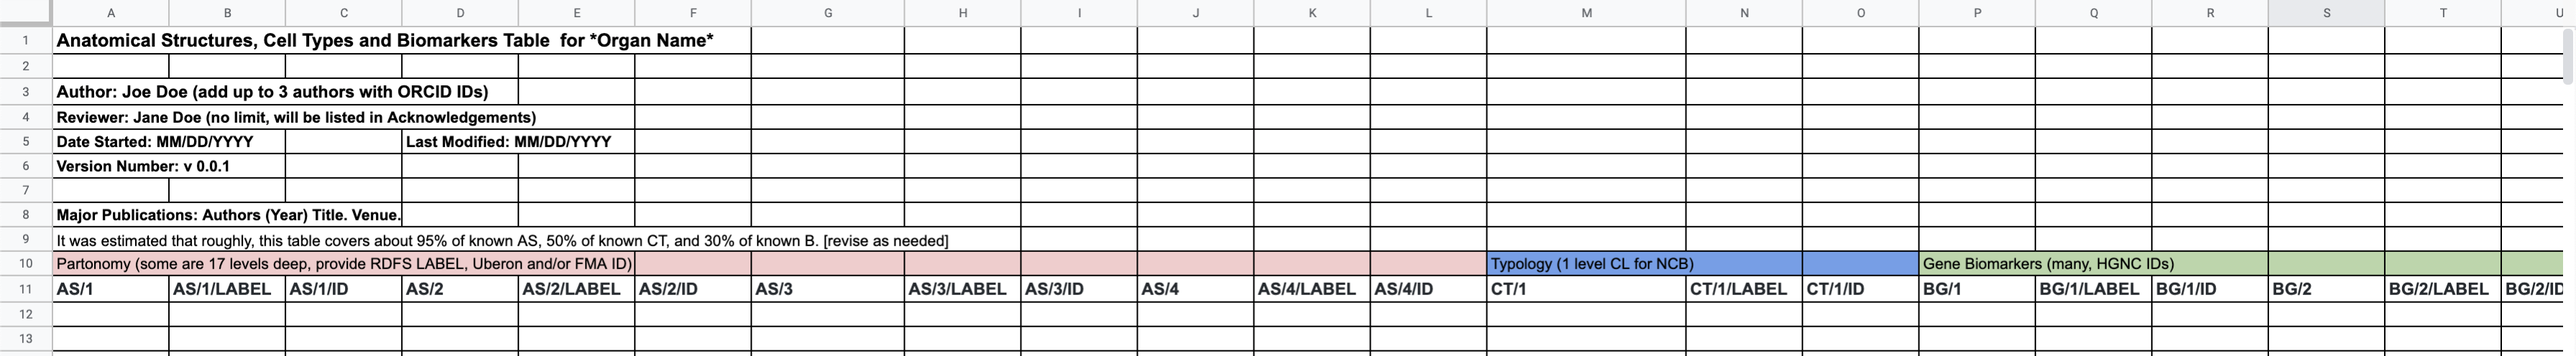
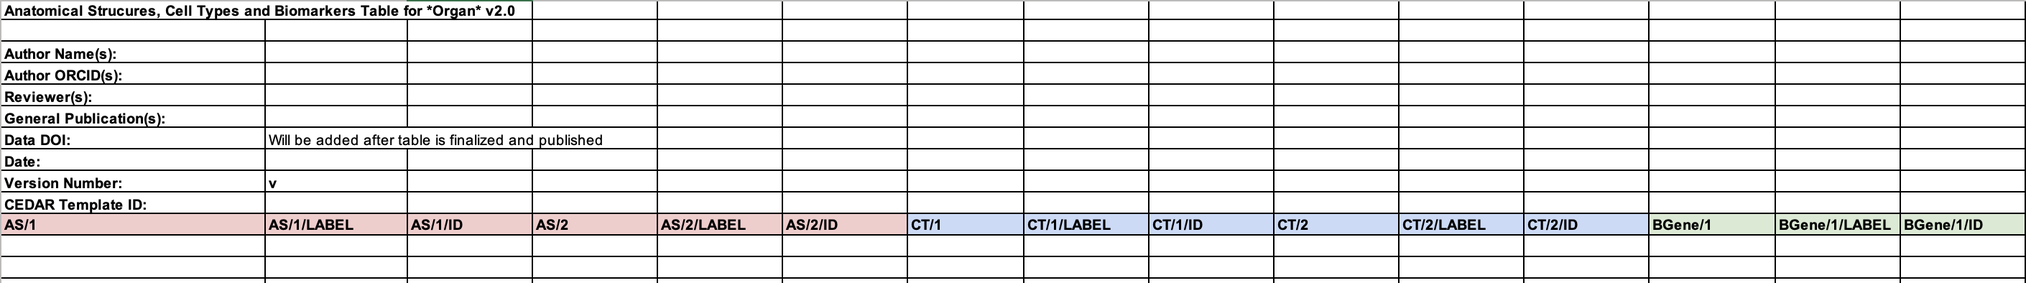
new column names added

diff --git a/asctb-api/src/index.ts b/asctb-api/src/index.ts
@@ -71,7 +71,12 @@ const headerMap: any = {
   CT: 'cell_types',
   BG: 'biomarkers_gene',
   BP: 'biomarkers_protein',
+  BGene: 'biomarkers_gene',
+  BProtein: 'biomarkers_protein',
   REF: 'references',
+  BLipid: 'biomarkers_lipids',
+  BMetabolites: 'biomarkers_meta',
+  BProteoform: 'biomarkers_prot',
   BL: 'biomarkers_lipids',
   BM: 'biomarkers_meta',
   BF: 'biomarkers_prot',
@@ -190,7 +195,7 @@ function makeASCTBData(data: any) {
         headerRow = i + 1;
         break;
       }
-
+      
       for (let i = headerRow; i < dataLength; i++) {
         const newRow: { [key: string]: any } = new Row();
 
@@ -212,19 +217,19 @@ function makeASCTBData(data: any) {
               newRow[key].push(ref);
             } else {
               const s = new Structure(data[i][j]);
-              if (rowHeader[0] === 'BG') {
+              if (rowHeader[0] === 'BGene' || rowHeader[0] === 'BG') {
                 s.b_type = BM_TYPE.G;
               }
-              if (rowHeader[0] === 'BP') {
+              if (rowHeader[0] === 'BProtein' || rowHeader[0] === 'BP') {
                 s.b_type = BM_TYPE.P;
               }
-              if (rowHeader[0] === 'BL') {
+              if (rowHeader[0] === 'BLipid' || rowHeader[0] === 'BL') {
                 s.b_type = BM_TYPE.BL;
               }
-              if (rowHeader[0] === 'BM') {
+              if (rowHeader[0] === 'BMetabolites' || rowHeader[0] === 'BM') {
                 s.b_type = BM_TYPE.BM;
               }
-              if (rowHeader[0] === 'BF') {
+              if (rowHeader[0] === 'BProteoform' || rowHeader[0] === 'BF') {
                 s.b_type = BM_TYPE.BF;
               }
               newRow[key].push(s);

diff --git a/projects/v2/src/assets/docs/data-format/README.md b/projects/v2/src/assets/docs/data-format/README.md
@@ -6,6 +6,8 @@ Existing ontologies (Uberon, FMA, CL, HGNC, etc.) have thousands of terms and fo
 
 *The template for the ASCT+B Tables can be found [here](https://docs.google.com/spreadsheets/d/1F7D0y7pNPVIR3W4LjjtIMGg7rKTOxwyjVKzS-iiffz4/edit#gid=2034682742).*
 
+*The template for the ASCT+B Tables version 2 can be found [here](https://docs.google.com/spreadsheets/d/1tK916JyG5ZSXW_cXfsyZnzXfjyoN-8B2GXLbYD6_vF0/edit#gid=559906129).*
+
 <br>
 
 #### “About Table” Information (first 10 rows)
@@ -33,7 +35,7 @@ The data is formatted in a specific way to keep it standardized across all organ
 
 <br>
 
-- **ENTITY** values: `AS`, `CT`, `BP`, `BG`, `REF` (required)
+- **ENTITY** values: `AS`, `CT`, `BProtein`, `BGene`, `BProteoform`, `BLipid`, `BMetabolites`, `REF` (required)
 - **NUMBER** can be non-negative numbers starting from 1 (required)
 - **DATA_TYPE** values: `ID`, `LABEL`, `DOI` (optional)
 
@@ -43,7 +45,7 @@ The data is formatted in a specific way to keep it standardized across all organ
 
 - For the data to be visualized, the data **must** conform to this structure. 
 - There should be only one item per cell. Multiple items in a single cell separated by commas or any delimiter will be considered and visualized as a single entity. 
-- Headers must be on row 11. The positioning of the columns do not matter (i.e `AS/1/LABEL` to be beside `AS/1`. It can be anywhere on the table as long as the column header is on row 11).
+- Headers should start with `AS/1` as the first column from any row position. The positioning of all other columns do not matter (i.e `AS/1/LABEL` to be beside `AS/1`. It can be anywhere on the table as long as the column header begin with `AS/1` as the first column).
 
 <div class="text-center"> 
   <img src="assets/docs/data-format/table.png" class="md-img p-2 w-100">

diff --git a/projects/v2/src/assets/docs/vis-functions/README.md b/projects/v2/src/assets/docs/vis-functions/README.md
@@ -34,7 +34,10 @@ CT and B nodes can be sized based on their *indegree*, *outdegree* and *degree*.
 
 The Reporter currently supports two types of bomarkers,
 
-- Protein (denoted by BP in the ASCT+B Tables)
-- Gene (denoted by BG in the ASCT+B Tables)
+- Protein (denoted by BProtein in the ASCT+B Tables)
+- Gene (denoted by BGene in the ASCT+B Tables)
+- Proteoform (denoted by BProteoform in the ASCT+B Tables)
+- Lipid (denoted by BLipid in the ASCT+B Tables)
+- Metabolites (denoted by BMetabolites in the ASCT+B Tables)
 
 By using the third select menu in the biomarker Functions, B nodes can be filtered based on their type. Selecting any of the options will cause the visualization to re-render.
